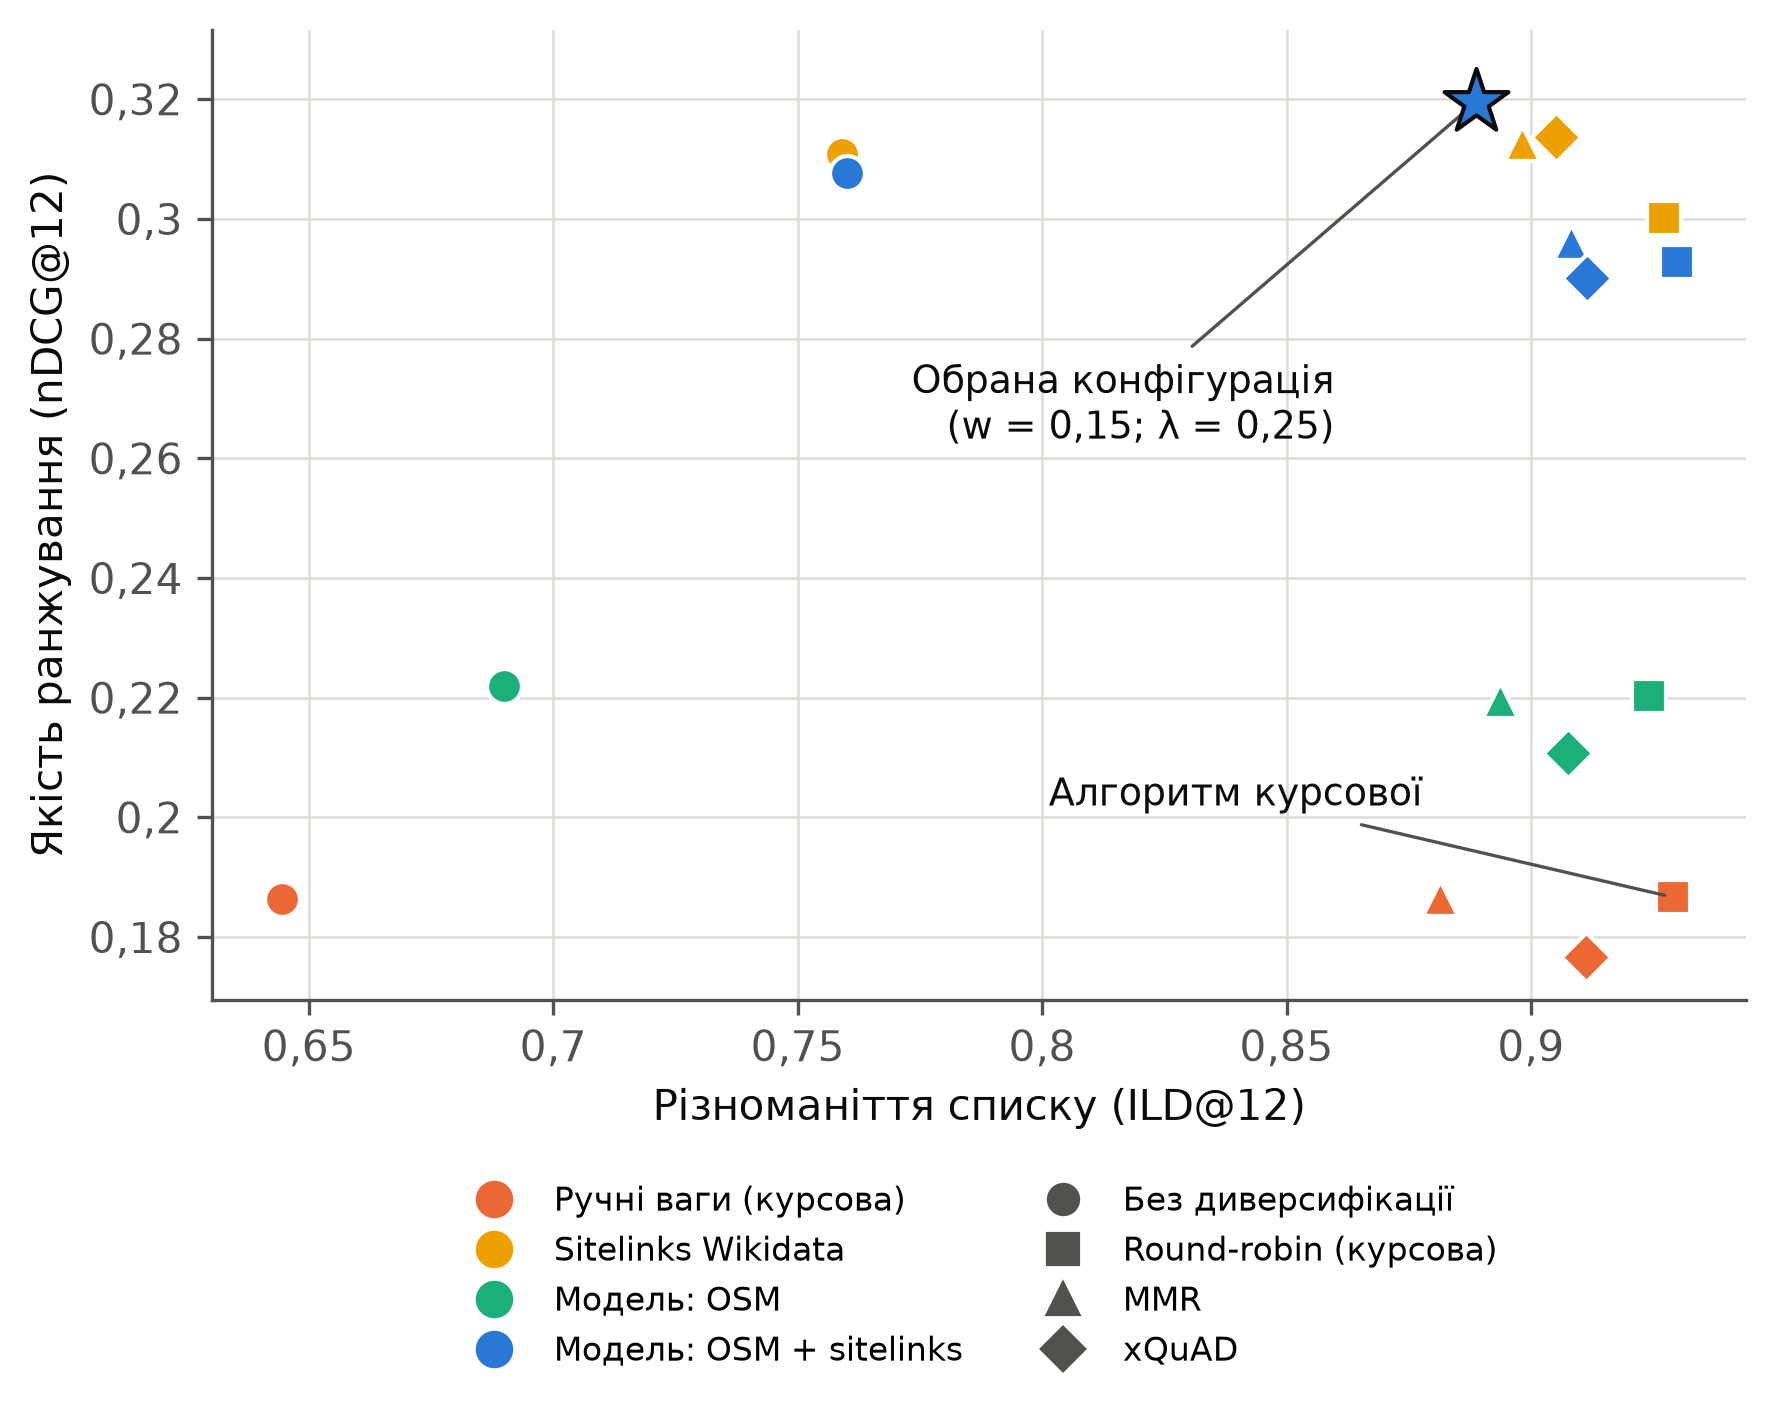
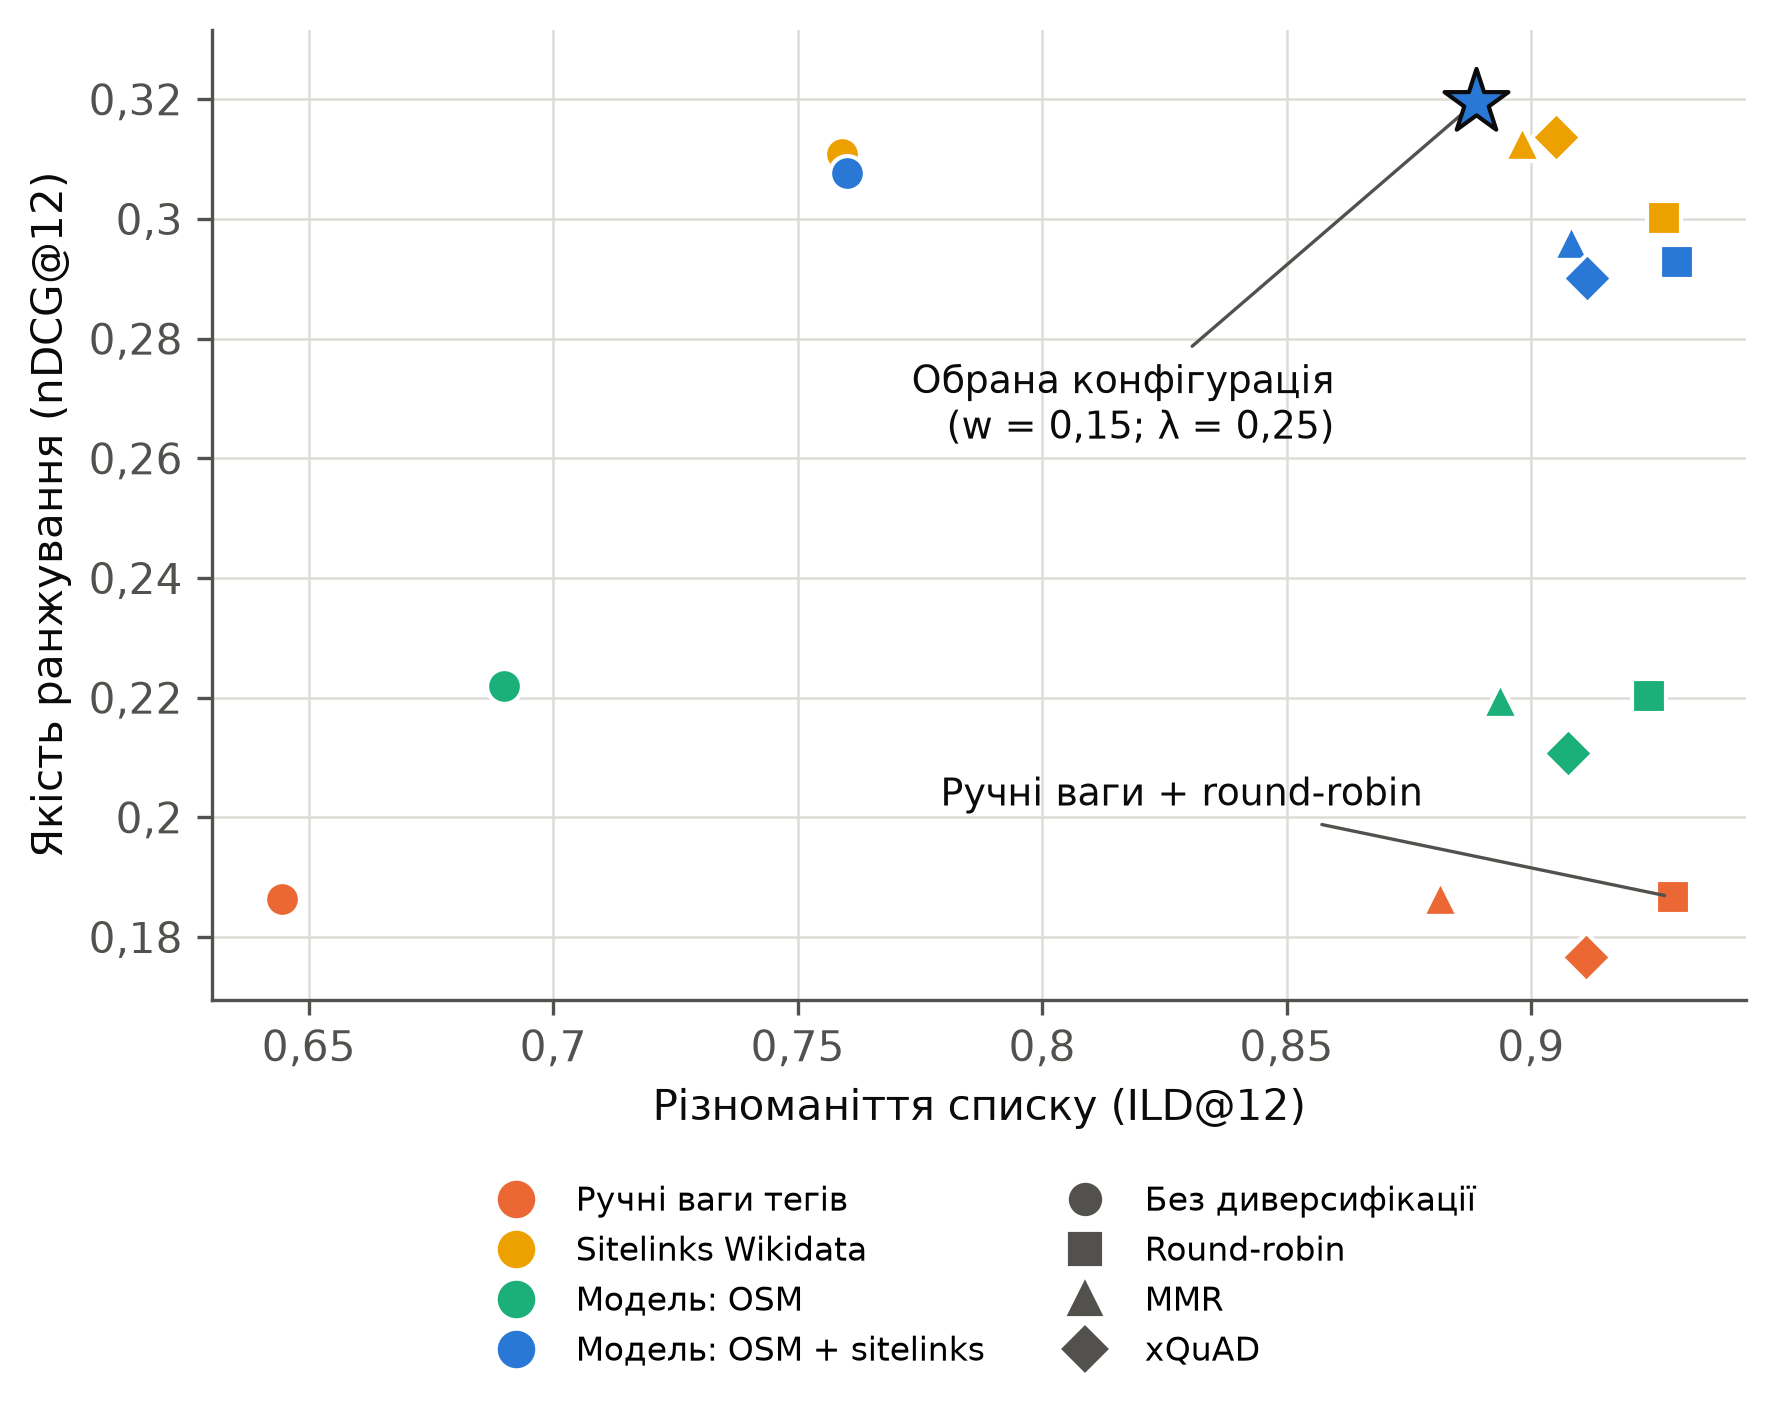
Rename baseline labels in experiment figures
Manual tag weights and round-robin are labelled as plain baselines;
figures regenerated.

Changed region(s): [[0.2477, 0.8414, 0.5574, 0.966], [0.5884, 0.8414, 0.8361, 0.966], [0.5265, 0.5297, 0.8981, 0.6232]]

diff --git a/backend/src/planner/experiments/figures.py b/backend/src/planner/experiments/figures.py
@@ -32,14 +32,14 @@ plt.rcParams.update({
 })  # fmt: skip
 
 SCORER_NAME = {
-    "manual": "Ручні ваги (курсова)", "n_tags": "Кількість тегів", "sitelinks": "Sitelinks Wikidata",
+    "manual": "Ручні ваги тегів", "n_tags": "Кількість тегів", "sitelinks": "Sitelinks Wikidata",
     "pageviews": "Перегляди Wikipedia", "lgbm:osm": "Модель: OSM", "logreg:osm": "Лог. регресія: OSM",
     "lgbm:osm+sitelinks": "Модель: OSM + sitelinks", "lgbm:osm+wiki": "Модель: OSM + sitelinks + перегляди",
     "logreg:osm+wiki": "Лог. регресія: OSM + Wiki",
 }  # fmt: skip
 SELECTOR_NAME = {
     "top_k": "Без диверсифікації",
-    "round_robin": "Round-robin (курсова)",
+    "round_robin": "Round-robin",
     "mmr": "MMR",
     "xquad": "xQuAD",
 }
@@ -272,7 +272,7 @@ def fig_e3() -> None:
     )
     old = summary[summary.config == "manual|round_robin"].iloc[0]
     ax.annotate(
-        "Алгоритм курсової",
+        "Ручні ваги + round-robin",
         (old.ild, old.ndcg),
         xytext=(-60, 22),
         textcoords="offset points",
@@ -320,7 +320,7 @@ def fig_e3() -> None:
 
     inter = pd.read_csv(RESULTS_DIR / "e3_interactive_summary.csv").set_index("config")
     rows = [
-        ("distance_only", "Лише відстань", MUTED), ("manual|round_robin", "Алгоритм курсової", ORANGE),
+        ("distance_only", "Лише відстань", MUTED), ("manual|round_robin", "Ручні ваги + round-robin", ORANGE),
         ("lgbm:osm|top_k", "Модель: OSM", AQUA), ("lgbm:osm+sitelinks|round_robin", "Модель + round-robin", BLUE),
         ("proposed", "Обрана конфігурація", BLUE), ("lgbm:osm+sitelinks|top_k|w=0.15", "Модель без диверсифікації", BLUE),
     ]  # fmt: skip
